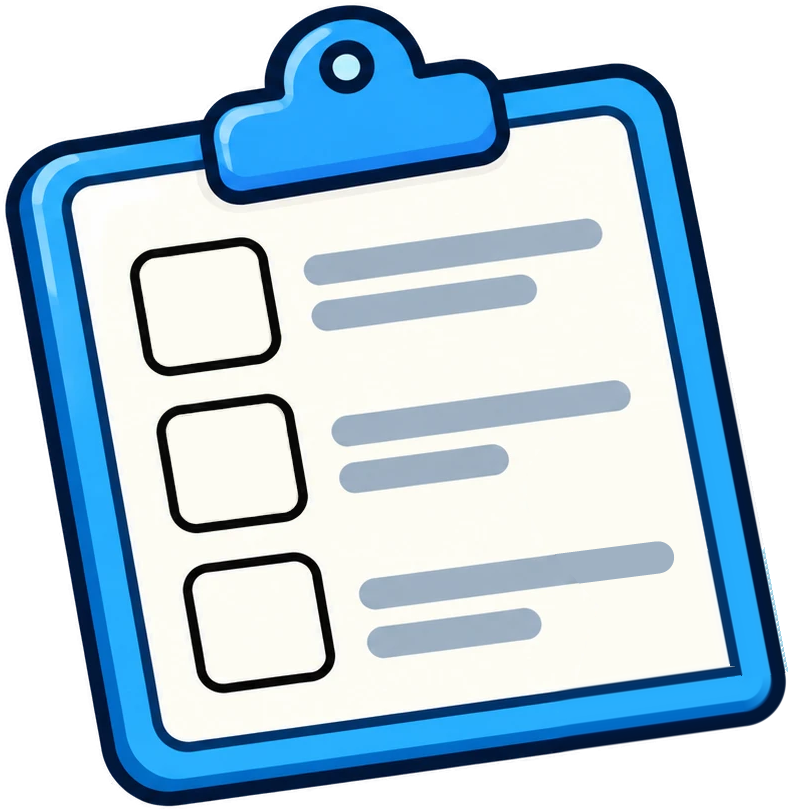
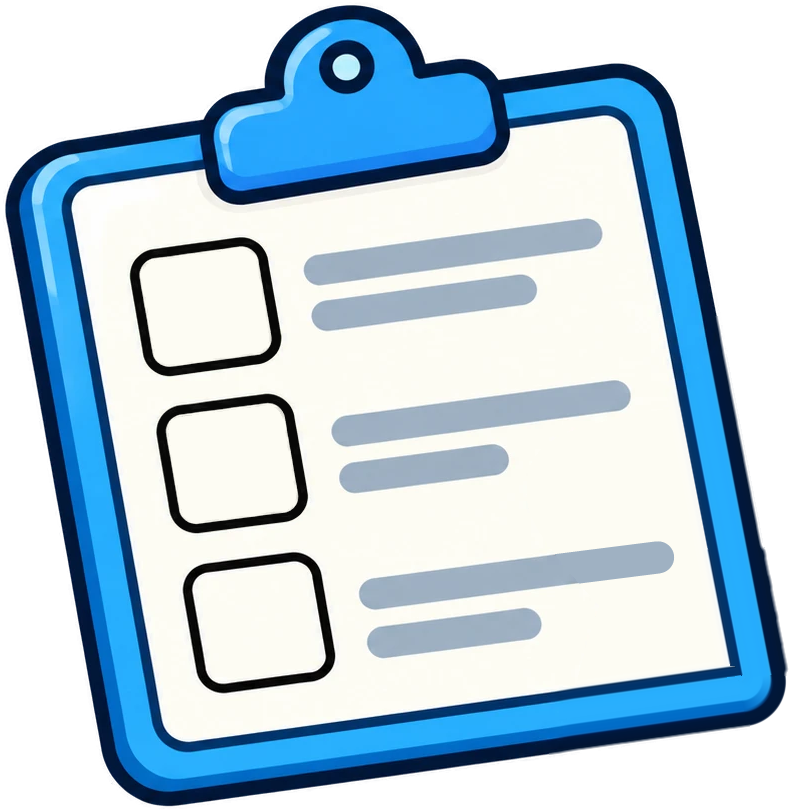
Nhiệm vụ: dựng lại nền quanh bảng (vòng sóng liền mạch, bóng sao đi cùng sao) và làm sạch mép phải bảng (#280)
Claude-Session: https://claude.ai/code/session_01Xqfit1TE88fdJNq9wU4RBg

diff --git a/frontend/src/components/Layout/MissionTransition.jsx b/frontend/src/components/Layout/MissionTransition.jsx
@@ -15,7 +15,7 @@
 //     để không bao giờ bị kẹt. Nội dung trang đích bay lên nhẹ lần lượt (html[data-arena-enter]), rồi lớp phủ được gỡ.
 // Hình minh hoạ nằm trong /public/mission/ (tách từ ảnh tham chiếu 1672×941): bg (nền, đã xoá bảng + sao + bóng đổ, vòng tròn sáng vẽ lại),
 // board (bảng đủ cả phần bị sao che, ba ô TRỐNG), shadow-board (bóng đổ dưới bảng), ok1 / ok2 (nền xanh lá của ô), ck1a, ck1b, ck2a, ck2b (hai nét dấu tích trắng),
-// star. Toạ độ (x, y, w, h) nằm ở hằng số SPR (pixel ảnh gốc). Dấu tích hiện bằng clip-path quét theo hướng từng nét (keyframes `mi-ck…`).
+// shadow-star (bóng đổ của sao trên nền, đi cùng sao), star. Toạ độ (x, y, w, h) nằm ở hằng số SPR (pixel ảnh gốc). Dấu tích hiện bằng clip-path quét theo hướng từng nét (keyframes `mi-ck…`).
 import { useEffect, useMemo, useRef, useState } from 'react';
 import { useNavigate } from 'react-router-dom';
 import { playTing } from '../../lib/sound';
@@ -36,14 +36,15 @@ const weakDevice = () => typeof navigator !== 'undefined' && ((navigator.hardwar
 const FW = 1672;
 const FH = 941;
 const SPR = {
-  'shadow-board': { x: 444, y: 194, w: 691, h: 698 },
-  'board': { x: 341, y: 67, w: 790, h: 812 },
+  'shadow-board': { x: 444, y: 194, w: 692, h: 698 },
+  'board': { x: 341, y: 67, w: 791, h: 812 },
   'ok1': { x: 477, y: 310, w: 139, h: 128 },
   'ck1a': { x: 494, y: 358, w: 48, h: 57 },
   'ck1b': { x: 532, y: 328, w: 63, h: 85 },
   'ok2': { x: 503, y: 466, w: 140, h: 129 },
   'ck2a': { x: 520, y: 517, w: 48, h: 54 },
   'ck2b': { x: 558, y: 486, w: 64, h: 85 },
+  'shadow-star': { x: 909, y: 380, w: 504, h: 519 },
   'star': { x: 871, y: 354, w: 537, h: 515 },
 };
 const at = (k) => ({ left: `${((SPR[k].x / FW) * 100).toFixed(3)}%`, top: `${((SPR[k].y / FH) * 100).toFixed(3)}%`, width: `${((SPR[k].w / FW) * 100).toFixed(3)}%` });
@@ -69,6 +70,7 @@ function Overlay({ lite, leaving }) {
           </div>
         </div>
         <div className="mi-star">
+          {img('shadow-star')}
           {img('star')}
         </div>
       </div>
